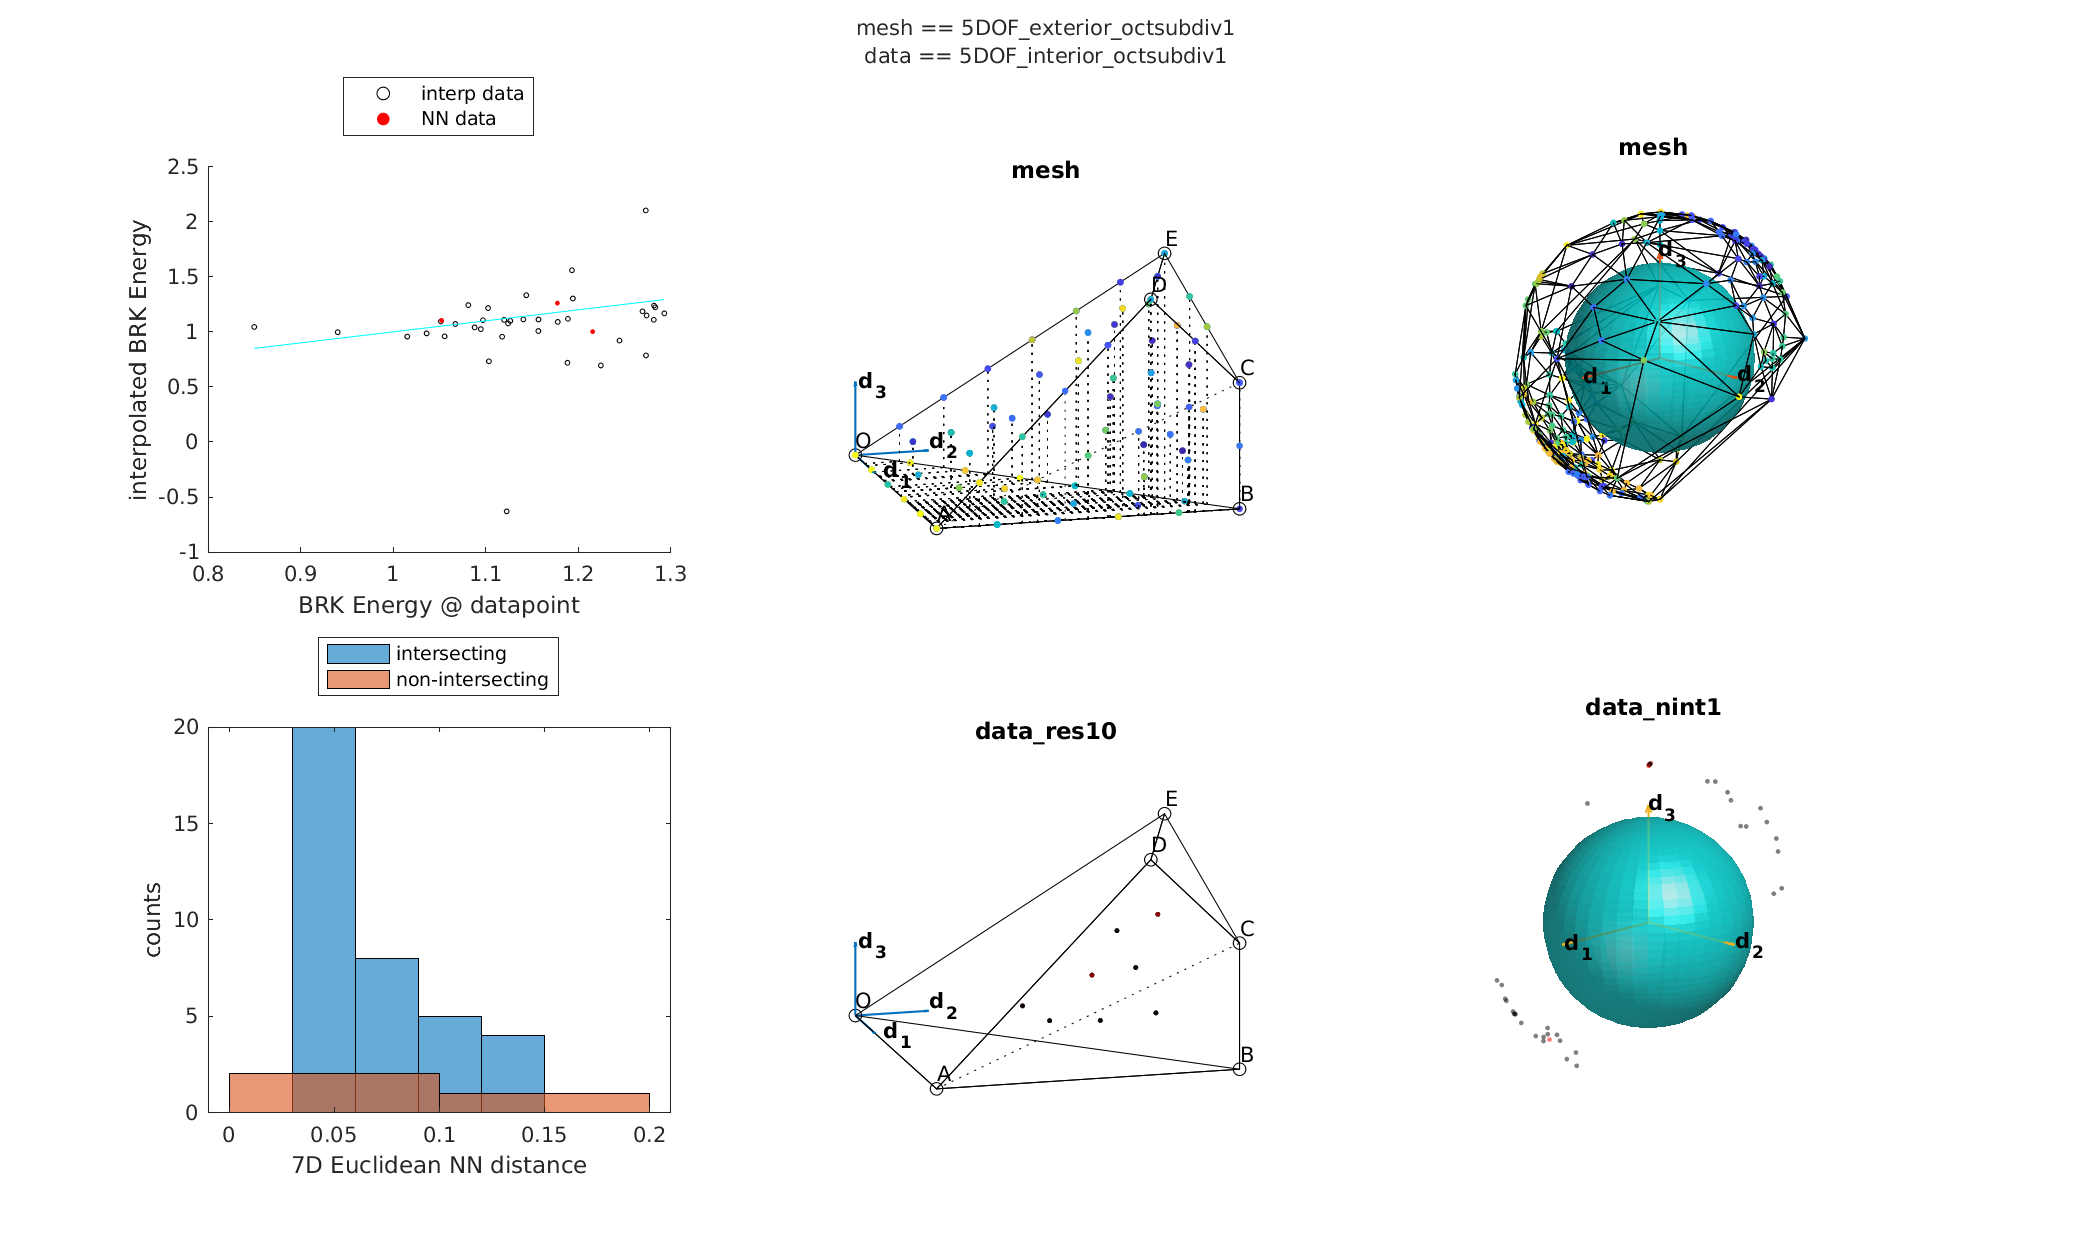
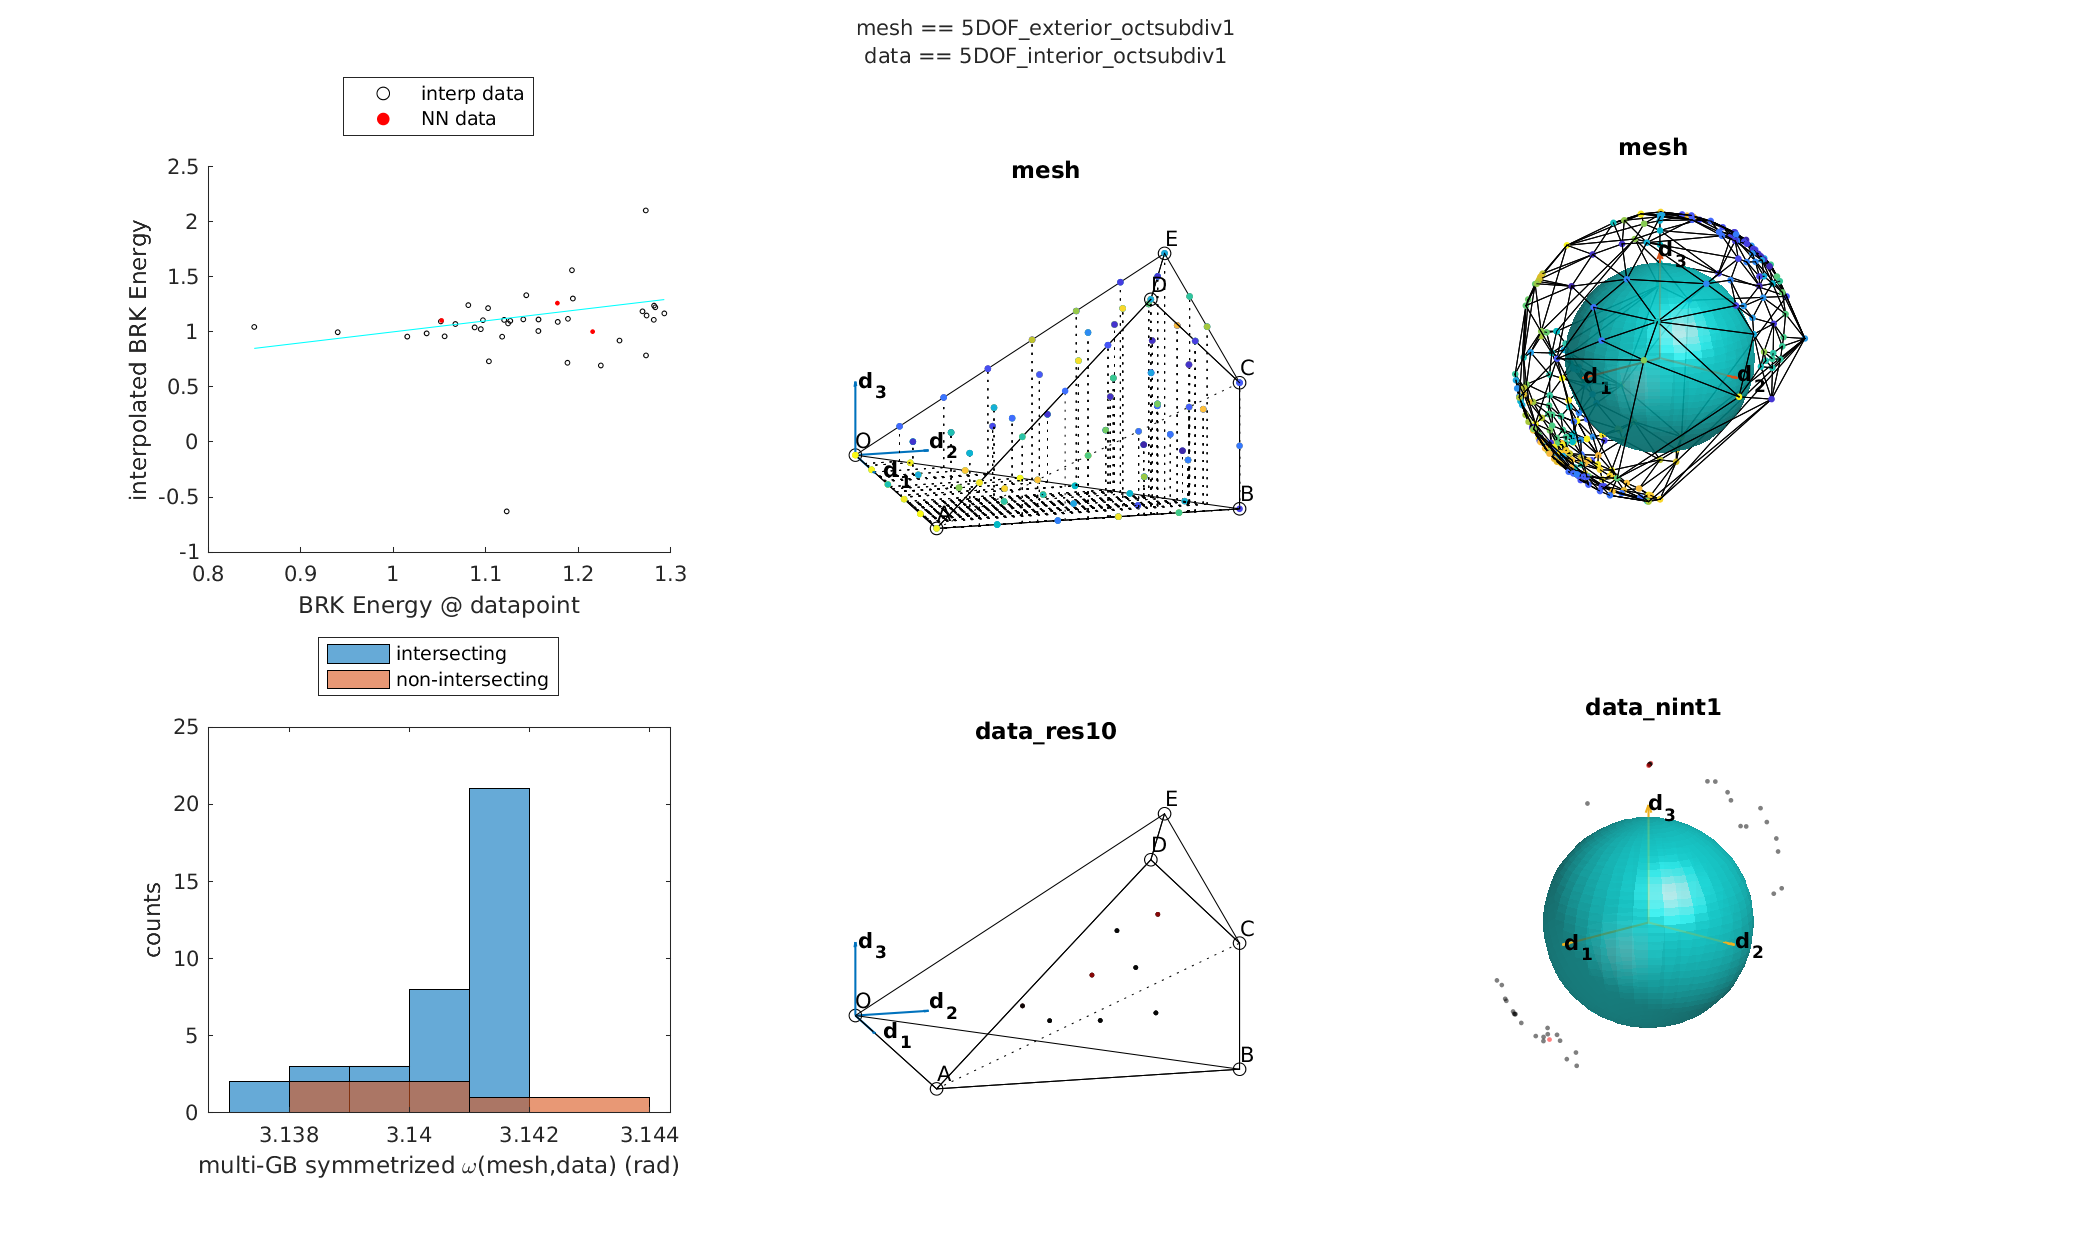
make get_omega() readable, use omega, not eucl. dist.

Changed region(s): [[0.0936, 0.5616, 0.3433, 0.936]]

diff --git a/code/get_omega.m b/code/get_omega.m
@@ -6,14 +6,22 @@ function omega = get_omega(o1,o2)
 %
 % Description:
 % 
-% Inputs:
+% Inputs: o1, o2 form an octonion pair, each can be rows of octonions
 %
 % Outputs:
 %
 % Dependencies:
 %
 %--------------------------------------------------------------------------
-omega = 2*acos(abs( dot(o1(1:4),o2(1:4)) + dot(o1(5:8),o2(5:8)) )/2);
+qA = o1(:,1:4);
+qB = o1(:,5:8);
+qC = o2(:,1:4);
+qD = o2(:,5:8);
+
+dot1 = dot(qA,qC,2);
+dot2 = dot(qB,qD,2);
+
+omega = 2*acos(abs(dot1+dot2)/2);
 
 end
 %----------------------------END get_omega()-------------------------------

diff --git a/code/run.m b/code/run.m
@@ -130,7 +130,8 @@ disp('nearest neighbor search for all datapoints')
 % 		ptstemp = mesh.pts;
 % 	end
 [nnList,nndistList] = dsearchn(mesh.pts,data.pts);
-
+meshtemp = mesh.pts(nnList,:);
+nndistList = get_omega(meshtemp,data.pts);
 % 	disp('convert mesh to 5DOF FZ')
 %	meshfiveFZ = tofiveFZ(mesh.five,mesh.pts);
 

diff --git a/code/interpplot.m b/code/interpplot.m
@@ -61,9 +61,8 @@ hold on
 ax2 = histogram(nonintDists);
 
 legend('intersecting','non-intersecting','Location','northoutside')
-xlabel('7D Euclidean NN distance')
+xlabel('multi-GB symmetrized \omega(mesh,data) (rad)')
 ylabel('counts')
-
 % 5DOF plots
 
 %convert to disorientation
